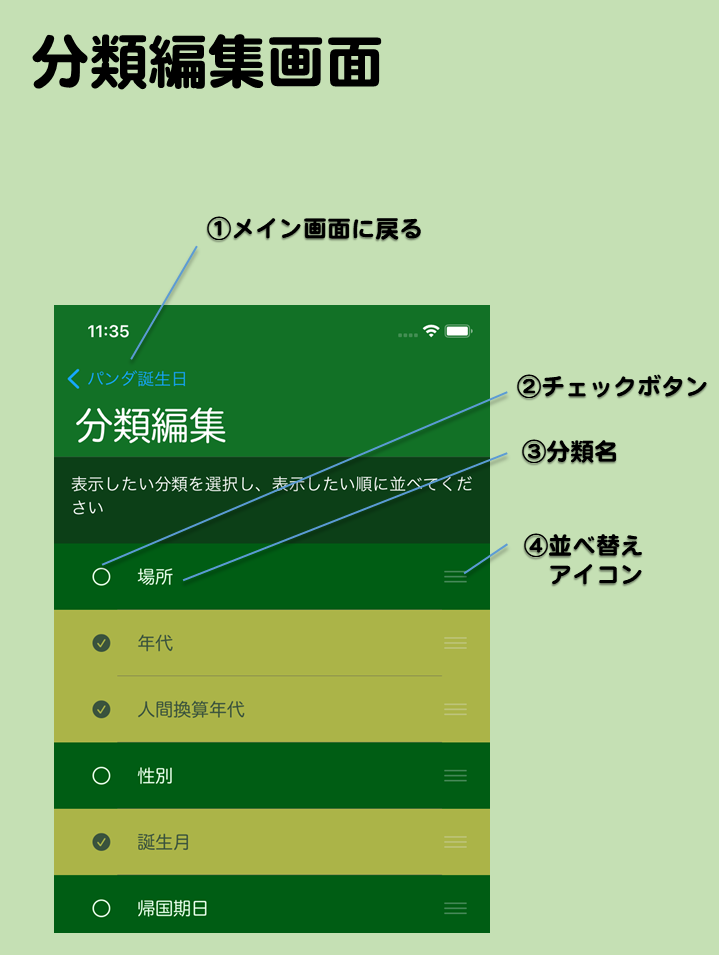
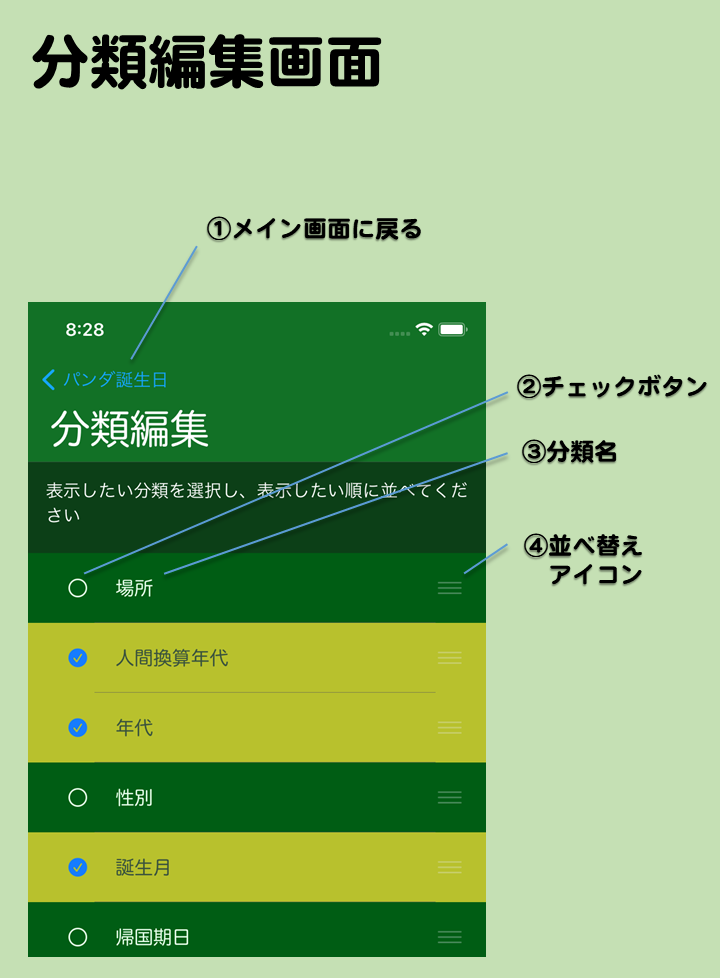
modify

Changed region(s): [[0.0306, 0.2126, 0.9791, 1.0], [0.0306, 0.0304, 0.5202, 0.0911]]

diff --git a/pandabirthday/v1_2/help_mainPage.html b/pandabirthday/v1_2/help_mainPage.html
@@ -46,24 +46,24 @@
       <dt>画面の説明</dt>
       <dd></dd>
       <dt>①分類編集画面へ</dt>
-      <dd>分類編集画面に移動します。表示したい分類を変更したり、分類の表示切り替え順序を変えたりできます。 </dd>
+      <dd>タップすると分類編集画面に移動します。表示したい分類を変更したり、分類の表示切り替え順序を変えたりできます。 </dd>
       <dt>②新規登録画面へ</dt>
-      <dd>新規登録画面</a>に移動します。自分で誕生日やイベントを登録できます。 </dd>
+      <dd>タップすると新規登録画面に移動します。自分で誕生日やイベントを登録できます。 </dd>
       <dt>③お気に入りフィルター</dt>
-      <dd>お気に入りを設定した情報だけ表示するかどうかを切り替えます。★ならフィルターオン（お気に入りだけ表示）、☆ならフィルターオフ（全部の情報を表示）です。
+      <dd>タップするとお気に入りを設定した情報だけ表示するかどうかを切り替えます。★ならフィルターオン（お気に入りだけ表示）、☆ならフィルターオフ（全部の情報を表示）です。
       各情報のお気に入りは詳細情報画面で設定できます。 </dd>
       <dt>④日付表示切替</dt>
-      <dd>情報欄の日付表示を切り換えます。分類の種類によって切り換えられる表示形式が変わります。</dd>
+      <dd>情報欄の日付表示を年表示、年月日表示、日数表示に切り換えます。現在表示中の分類によって切り替わる日数表示が変わります。</dd>
       <dt>⑤分類切替</dt>
-      <dd>現在表示している分類の種類を示します。タップすると次の分類に変更します。表示したい分類の変更は分類編集画面で行えます。</dd>
+      <dd>現在表示している分類の種類を示します。タップすると次の分類に表示切り替えします。表示したい分類の変更は分類編集画面で行えます。</dd>
       <dt>⑥グループ名</dt>
       <dd>現在の分類に応じた情報欄のグループ名です。グループ名の後にそのグループに所属する複数の情報欄がまとまって表示されます。</dd>
       <dt>⑦情報欄</dt>
       <dd>パンダ情報もしくは利用者が登録した情報の抜粋表示です。アイコン、名前、日付を表示します。iPadなどの画面が広い機種では場所も表示します。情報欄をタップすると詳細情報画面に移動します。</dd>
       <dt>⑧日付表示</dt>
-      <dd>情報毎の日付を表示します。分類が帰国期限ならば帰国日を示し、それ以外なら誕生日もしくはイベントの日を示します。日付表示切り替えアイコンをタップする度に表示方法が変わります。</dd>
+      <dd>情報毎の日付を表示します。分類が帰国期日ならば帰国期日とそれまでの日数を示し、誕生月なら誕生月日と次の誕生日までの日にち、人間換算年代なら誕生日と人間年齢に換算した年齢、それ以外なら誕生日と経過日数を示します。日付表示切り替えアイコンをタップする度に表示方法が変わります。</dd>
       <dt>⑨使い方画面へ</dt>
-      <dd>この使い方画面を表示します。</dd>
+      <dd>タップするとこの使い方画面を表示します。</dd>
     </dl>
   </body>
 </html>

diff --git a/pandabirthday/v1_2/help_detailPage.html b/pandabirthday/v1_2/help_detailPage.html
@@ -41,22 +41,22 @@
     <img src="help_detailpage.png" alt="detail page image" title="detail_page ">
     <dl>
       <dt>詳細情報画面とは</dt>
-      <dd>メイン画面で情報欄をタップして移動してくる画面です。選んだ情報の詳細情報を表示します。</dd>
+      <dd>メイン画面で情報欄をタップして移動してくる画面です。メイン画面で選んだパンダやユーザー登録情報の詳細情報を表示します。パンダや情報の種類によって表示される項目も変わります。</dd>
       <dd><br></dd>
       <dt>画面の説明</dt>
       <dd></dd>
       <dt>①メイン画面に戻る</dt>
       <dd>メイン画面に戻ります。</dd>
       <dt>②日付表示切替</dt>
-      <dd>このページの誕生日や帰国期日の表示形式を切り替えます。</dd>
+      <dd>このページの誕生日や来日日、帰国期日の表示形式を切り替えます。</dd>
       <dt>③お気に入りボタン</dt>
       <dd>押すとお気に入りに入れます。もう一度押すとお気に入りを解除します。</dd>
-      <dt>④誕生日</dt>
-      <dd>誕生日を表示します。日付表示切り替えを押すことで経過時間や次の誕生日までの日数の表示を切り換えられます。</dd>
+      <dt>④誕生日と年齢</dt>
+      <dd>誕生日や年齢、人間年齢に換算した年齢などを表示します。イベントの場合はイベント日とイベントまでもしくはイベントからの日数を表示します。日付表示切り替えを押すことで日数の表示形式を切り換えられます。</dd>
       <dt>⑤出生地と現住地</dt>
-      <dd>生まれた場所、今いる動物園を示します。タップするとそれぞれのサイトへのリンクをブラウザで開きます。</dd>
+      <dd>生まれた場所、今いる動物園を示します。イベントの場合はイベントの場所を表示します。パンダの情報ならタップするとそれぞれの場所の情報があるサイトをブラウザで開きます。</dd>
       <dt>⑥帰国期日</dt>
-      <dd>帰国期日が決まっている場合にそれを表示します。</dd>
+      <dd>帰国期日が決まっている場合にそれを表示します。中国から来日したパンダは来日日も表示します。</dd>
       <dt>⑦関連情報</dt>
       <dd>このパンダに関連する情報サイトへのリンクです。タップするとそれぞれのサイトをブラウザで開きます。</dd>
       

diff --git a/pandabirthday/v1_2/help_groupingEditPage.html b/pandabirthday/v1_2/help_groupingEditPage.html
@@ -42,6 +42,8 @@
     <dl>
      <dt>分類編集画面とは</dt>
      <dd>メイン画面で分類編集画面ボタンをタップして移動してくる画面です。メイン画面で表示したい分類を選んだり、分類の表示順序を変更したりできます。</dd>
+      <dt>分類とは</dt>
+      <dd>メイン画面の情報をグループ分けするテーマです。分類に応じて情報の並べ替えも行われます。</dd>
       <dd><br></dd>
       <dt>画面の説明</dt>
       <dd></dd>
@@ -59,13 +61,13 @@
         <dt>場所</dt>
         <dd>現住地もしくはイベントの場所で分類します</dd>
         <dt>年代</dt>
-        <dd>誕生日もしくはイベント日で分類します。未来から過去に並びます</dd>
+        <dd>誕生日もしくはイベント日で分類します。情報は未来から過去の順に並びます</dd>
         <dt>人間換算年代</dt>
-        <dd>パンダの年齢を人間の年齢に換算して分類します。未来から過去に並びます</dd>
+        <dd>パンダの年齢を人間の年齢に換算して分類します。情報は未来から過去の順に並びます</dd>
         <dt>誕生月</dt>
-        <dd>誕生日もしくはイベントの月で分類します。１月から１２月に並びます</dd>
+        <dd>誕生日もしくはイベントの月で分類します。情報は１月から１２月の順に並びます</dd>
         <dt>帰国期日</dt>
-        <dd>パンダの中国への帰国期日で分類します。期日が未定な場合は近日中なら近々、それ以外は未定に分類します</dd>
+        <dd>パンダの中国への帰国期日で分類します。期日が未定な場合は近日中なら近々、それ以外は未定に分類されます</dd>
         <dt>性別</dt>
         <dd>性別で分類します</dd>
         <dt>種別</dt>

diff --git a/pandabirthday/v1_2/help_editPage.html b/pandabirthday/v1_2/help_editPage.html
@@ -60,7 +60,7 @@
       <dt>⑦登録ボタン</dt>
       <dd>上にある情報を入力した後にこのボタンをタップして情報を登録します。情報が登録されたら自動的に詳細情報画面に戻ります。</dd>
       <dt>⑧使い方画面へ</dt>
-      <dd>この使い方画面を表示します。</dd>
+      <dd>タップするとこの使い方画面を表示します。</dd>
     </dl>
   </body>
 </html>
